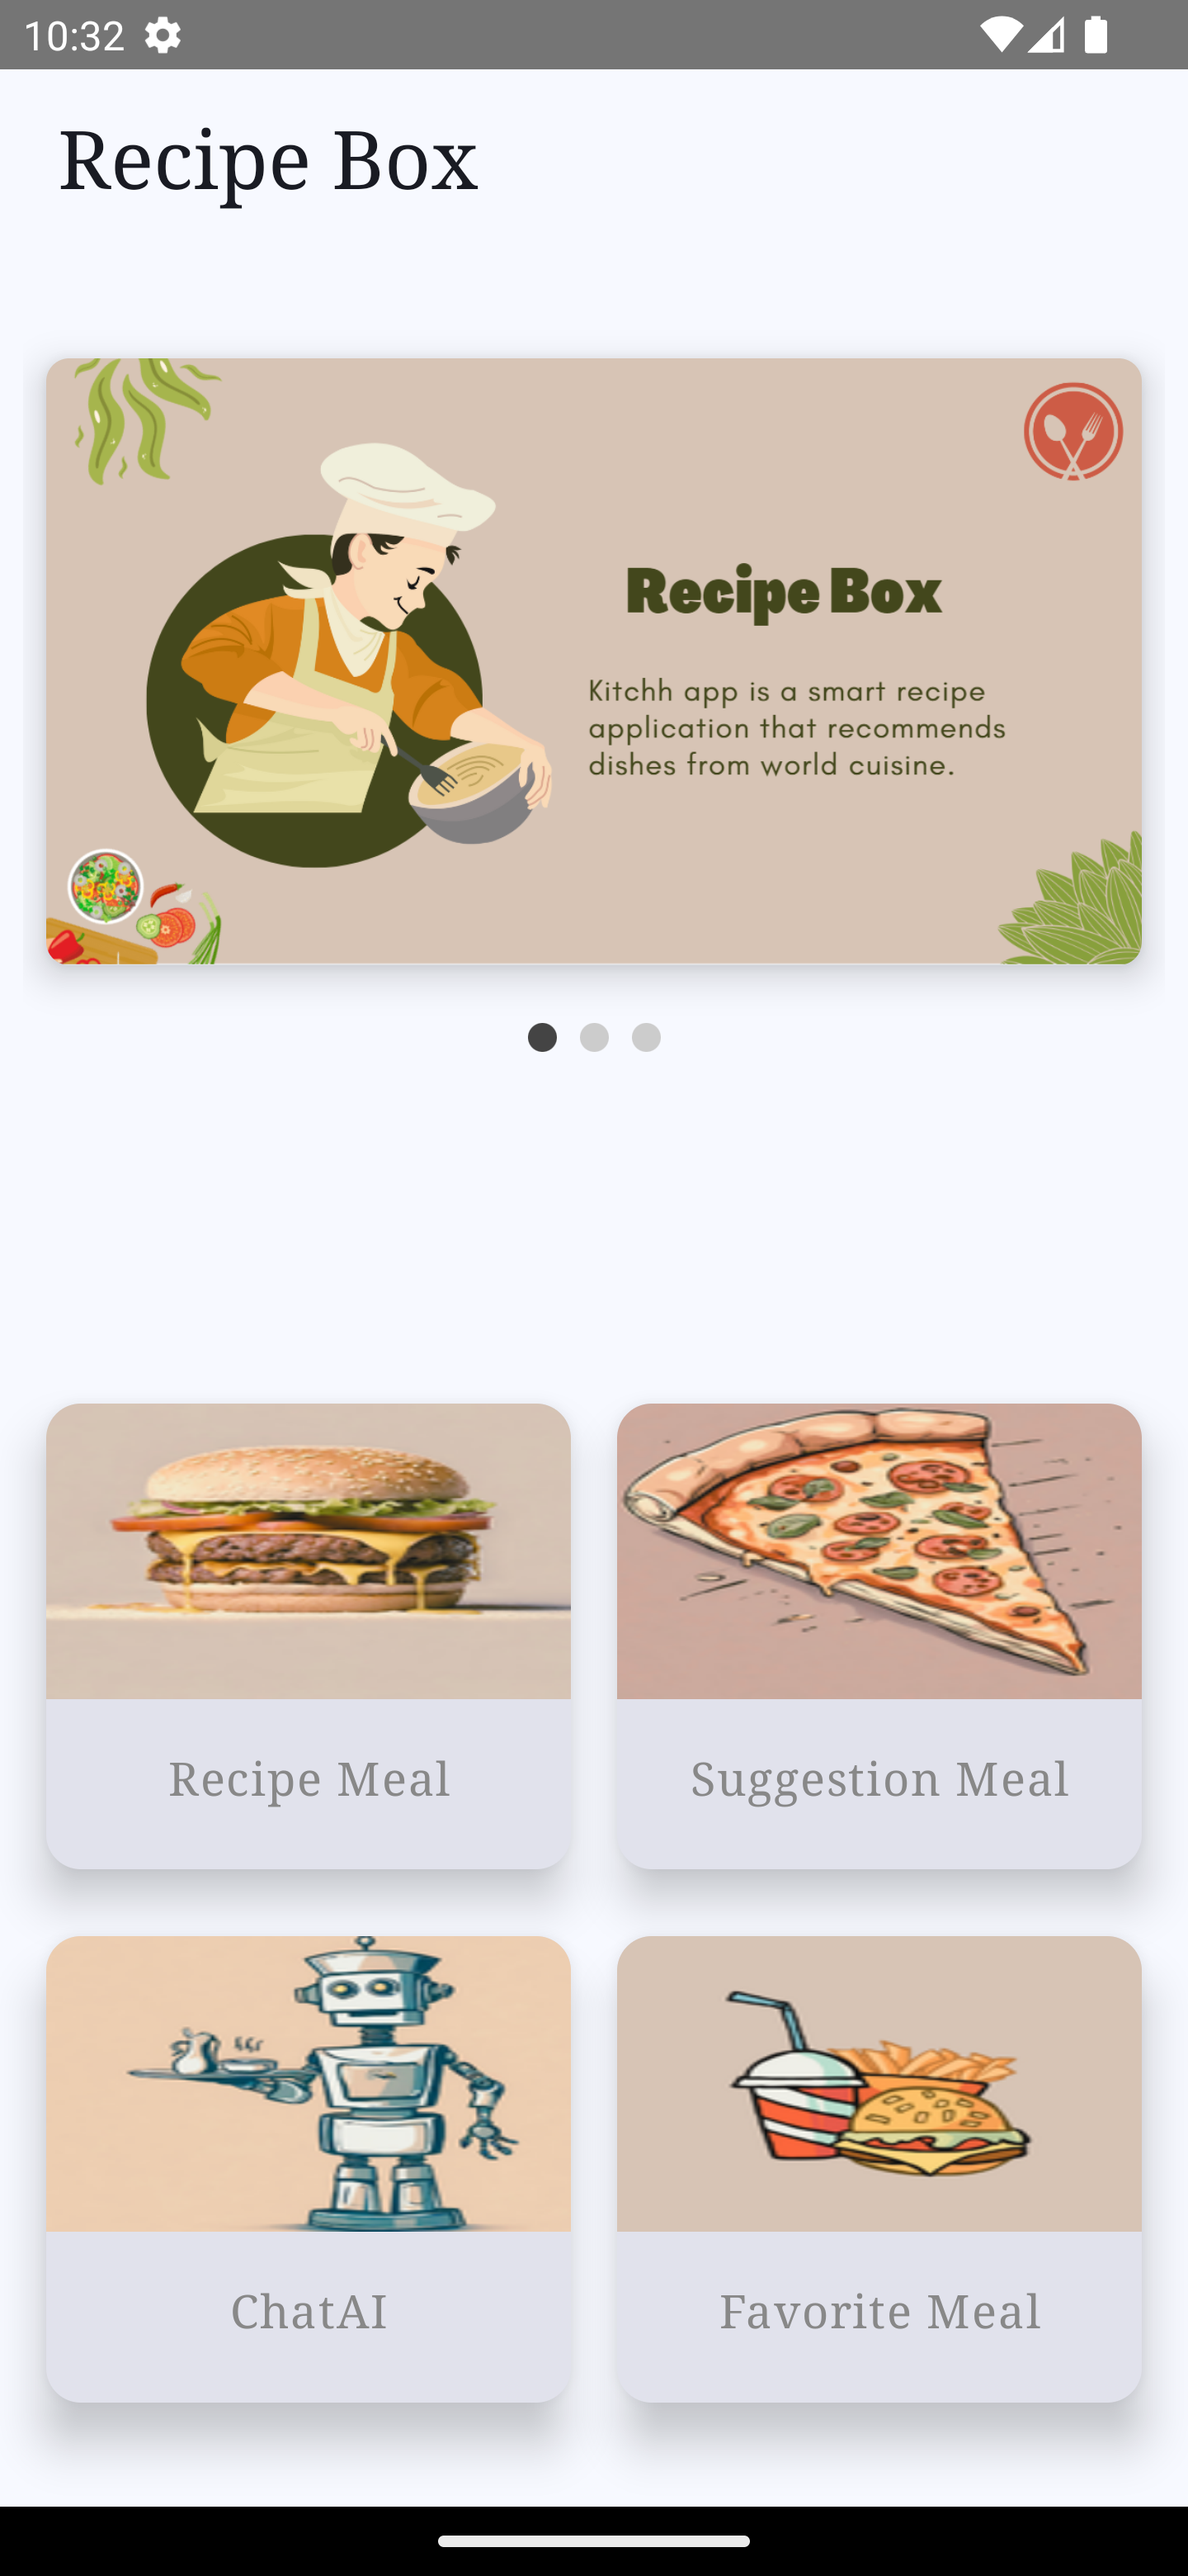
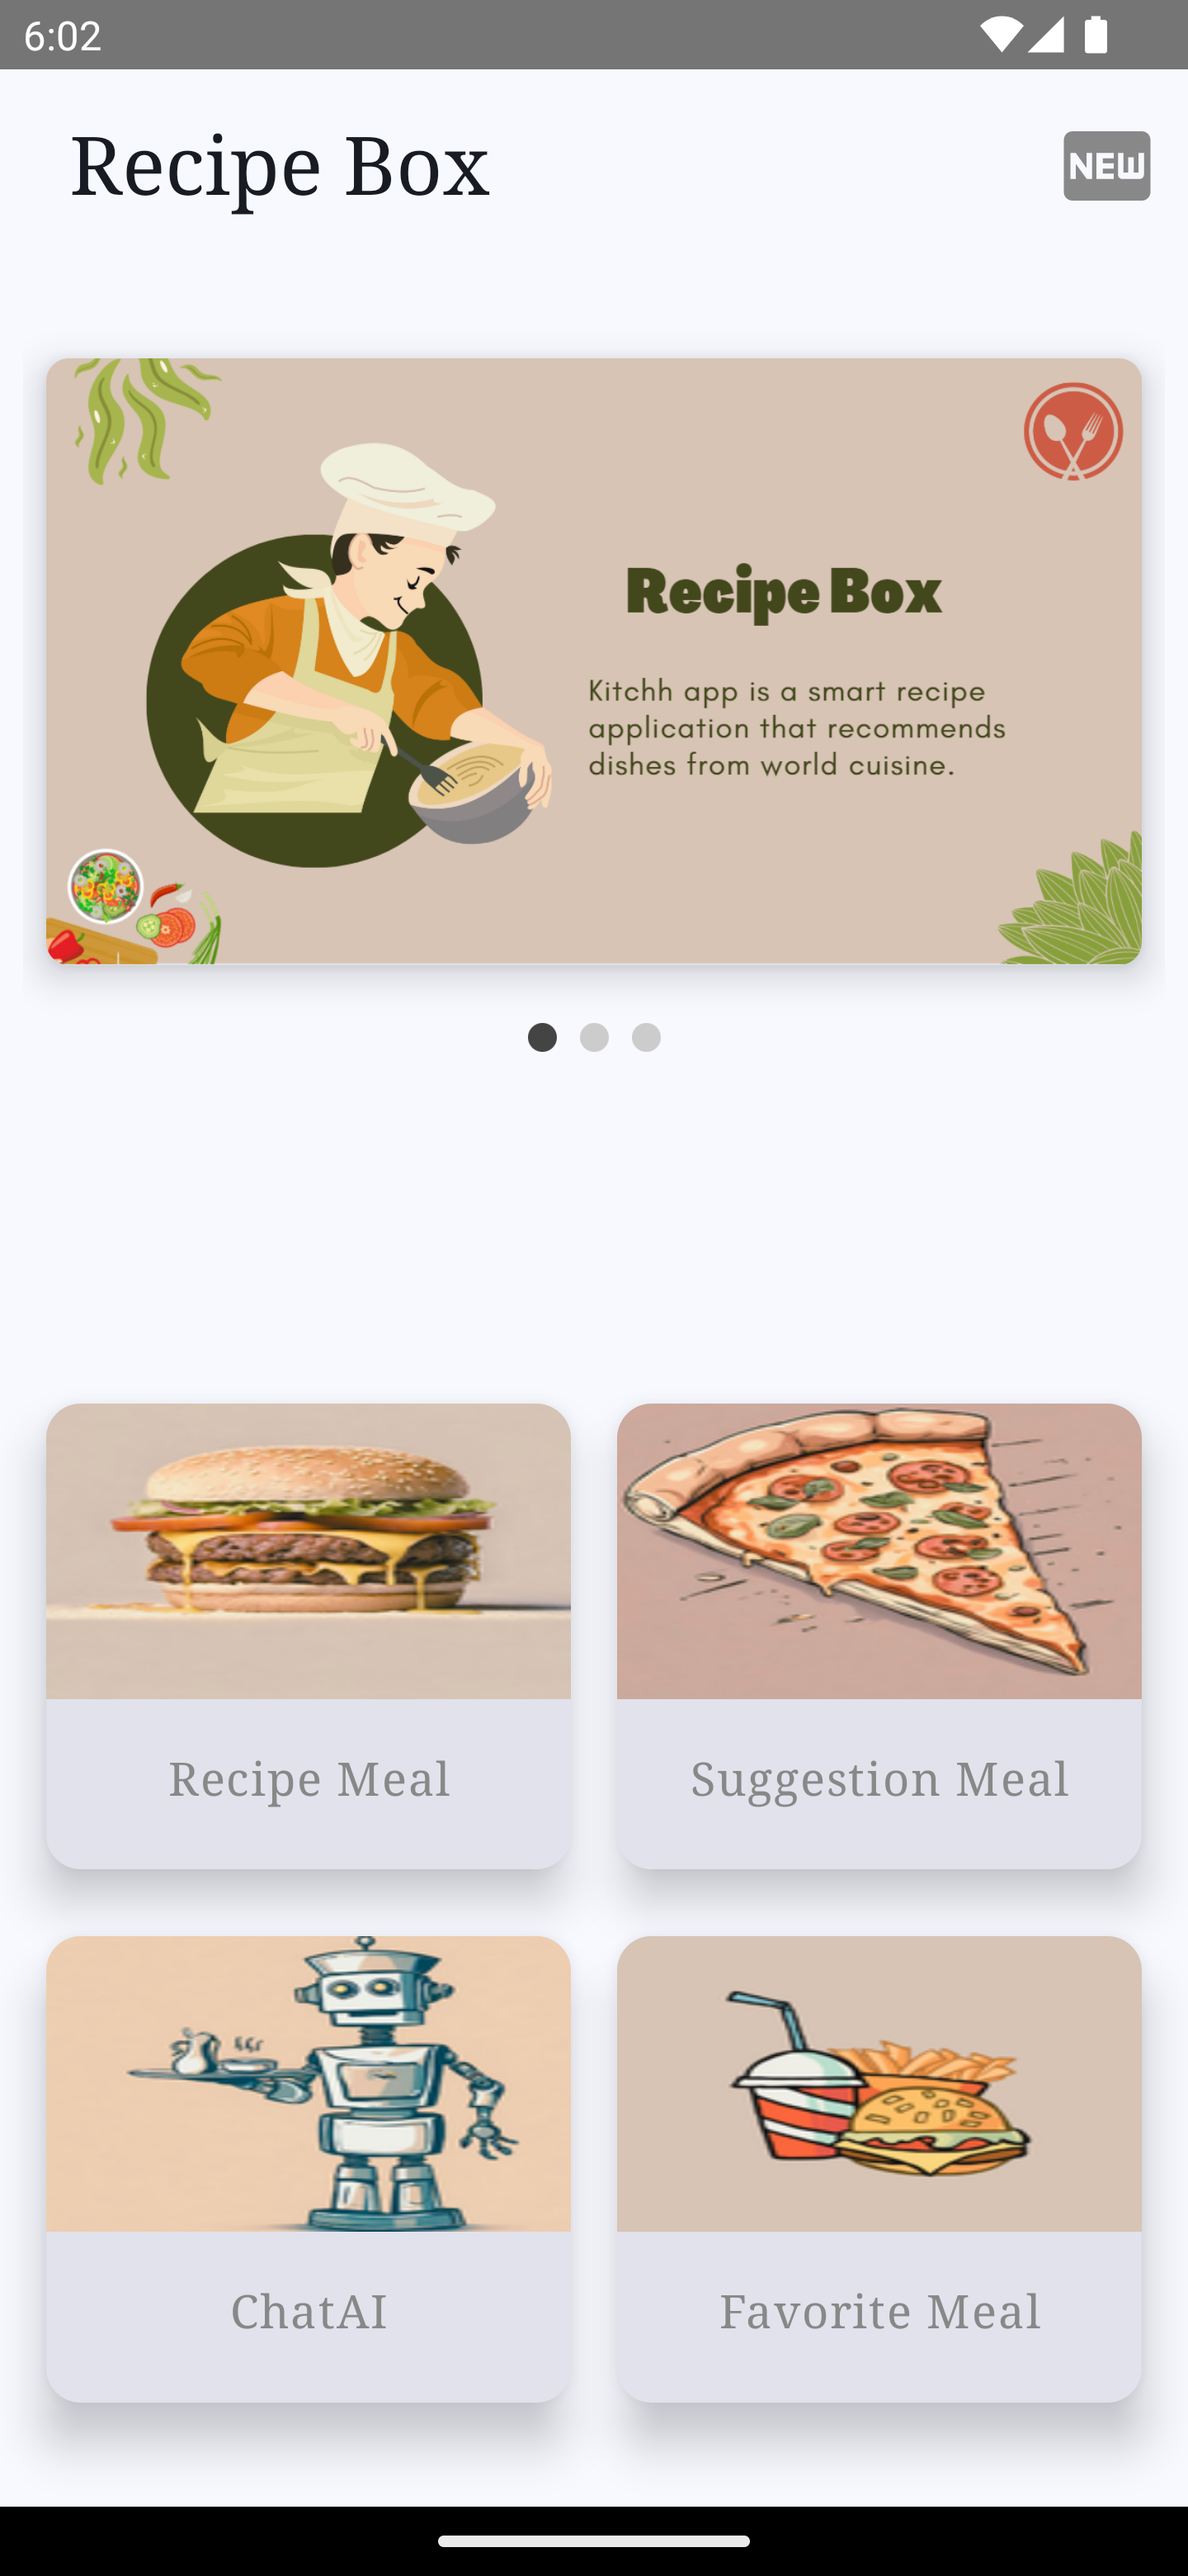
update navigation

Changed region(s): [[0.0312, 0.0, 0.4062, 0.0933], [0.875, 0.0311, 0.9688, 0.0933]]

diff --git a/app/src/main/java/com/enons/paparaproject/presentation/screens/HomePage/HomePage.kt b/app/src/main/java/com/enons/paparaproject/presentation/screens/HomePage/HomePage.kt
@@ -7,13 +7,18 @@ import androidx.compose.foundation.layout.Spacer
 import androidx.compose.foundation.layout.fillMaxSize
 import androidx.compose.foundation.layout.fillMaxWidth
 import androidx.compose.foundation.layout.padding
+import androidx.compose.foundation.layout.size
 import androidx.compose.foundation.layout.width
 import androidx.compose.material3.ExperimentalMaterial3Api
+import androidx.compose.material3.Icon
+import androidx.compose.material3.IconButton
 import androidx.compose.material3.Scaffold
 import androidx.compose.material3.TopAppBar
 import androidx.compose.runtime.Composable
 import androidx.compose.ui.Alignment
 import androidx.compose.ui.Modifier
+import androidx.compose.ui.graphics.Color
+import androidx.compose.ui.res.painterResource
 import androidx.compose.ui.res.stringResource
 import androidx.compose.ui.unit.dp
 import androidx.lifecycle.viewmodel.compose.viewModel
@@ -34,10 +39,29 @@ fun HomePage(navController: NavController) {
         topBar = {
             TopAppBar(
                 title = {
-                    CustomText(
-                        text = stringResource(id = R.string.app_name),
-                        padding = 4
-                    )
+                    Row(
+                        horizontalArrangement = Arrangement.SpaceBetween,
+                        modifier = Modifier
+                            .fillMaxWidth()
+                            .padding(top = 4.dp, end = 4.dp)
+                    ) {
+                        CustomText(
+                            text = stringResource(id = R.string.app_name),
+                            padding = 8
+                        )
+                        IconButton(
+                            onClick = {
+                                navController.navigate(Screen.LatestScreen.route)
+                            }
+                        ) {
+                            Icon(
+                                painter = painterResource(id = R.drawable.baseline_fiber_new_24),
+                                tint = Color.Gray,
+                                modifier = Modifier.size(36.dp),
+                                contentDescription = ""
+                            )
+                        }
+                    }
                 }
             )
         },
@@ -92,8 +116,7 @@ fun HomePage(navController: NavController) {
                             .fillMaxWidth()
                             .weight(7f),
                         text = stringResource(id = R.string.suggest_page),
-                        //onClick = { navController.navigate(Screen.RandomRecipePage.route) },
-                        onClick = { navController.navigate(Screen.LatestRecipePage.route) },
+                        onClick = { navController.navigate(Screen.RandomRecipePage.route) },
 
                         )
                     Spacer(modifier = Modifier.weight(1f))

diff --git a/app/src/main/java/com/enons/paparaproject/service/NotificationWorker.kt b/app/src/main/java/com/enons/paparaproject/service/NotificationWorker.kt
@@ -1,0 +1,54 @@
+package com.enons.paparaproject.service
+
+import android.app.NotificationChannel
+import android.app.NotificationManager
+import android.app.PendingIntent
+import android.content.Context
+import android.content.Intent
+import android.os.Build
+import androidx.core.app.NotificationCompat
+import androidx.core.app.NotificationManagerCompat
+import androidx.work.Worker
+import androidx.work.WorkerParameters
+import com.enons.paparaproject.MainActivity
+import com.enons.paparaproject.R
+
+class NotificationWorker(context: Context, params: WorkerParameters) : Worker(context, params) {
+
+    override fun doWork(): Result {
+        createNotification()
+        return Result.success()
+    }
+
+    private fun createNotification() {
+        val channelId = "latest_recipes_channel"
+        val channelName = "Latest Recipes Notifications"
+
+        if (Build.VERSION.SDK_INT >= Build.VERSION_CODES.O) {
+            val importance = NotificationManager.IMPORTANCE_DEFAULT
+            val channel = NotificationChannel(channelId, channelName, importance)
+            val notificationManager: NotificationManager = applicationContext.getSystemService(Context.NOTIFICATION_SERVICE) as NotificationManager
+            notificationManager.createNotificationChannel(channel)
+        }
+
+        val intent = Intent(applicationContext, MainActivity::class.java).apply {
+            flags = Intent.FLAG_ACTIVITY_CLEAR_TOP or Intent.FLAG_ACTIVITY_SINGLE_TOP
+            putExtra("navigateTo", "latestRecipePage")
+        }
+
+        val pendingIntent = PendingIntent.getActivity(applicationContext, 0, intent, PendingIntent.FLAG_UPDATE_CURRENT)
+
+        val notification = NotificationCompat.Builder(applicationContext, channelId)
+            .setSmallIcon(R.drawable.baseline_notifications_24)
+            .setContentTitle("Yeni Lezzetler Keşfet!")
+            .setContentText("Yeni tarifleri keşfetmek için tıkla!")
+            .setPriority(NotificationCompat.PRIORITY_DEFAULT)
+            .setContentIntent(pendingIntent)
+            .setAutoCancel(true)
+            .build()
+
+        with(NotificationManagerCompat.from(applicationContext)) {
+            notify(1, notification)
+        }
+    }
+}

diff --git a/app/src/main/java/com/enons/paparaproject/MainActivity.kt b/app/src/main/java/com/enons/paparaproject/MainActivity.kt
@@ -11,7 +11,7 @@ import androidx.work.WorkManager
 import com.enons.paparaproject.navigation.Navigation
 import com.enons.paparaproject.presentation.screens.HomePage.viewmodel.HomePageViewModel
 import com.enons.paparaproject.presentation.ui.theme.PaparaFinalProjectTheme
-import com.enons.paparaproject.service.MealWorker
+import com.enons.paparaproject.service.NotificationWorker
 import dagger.hilt.android.AndroidEntryPoint
 import java.util.concurrent.TimeUnit
 
@@ -38,19 +38,15 @@ class MainActivity : ComponentActivity() {
                 Navigation(navController = navController)
             }
         }
-        setupWorkManager()
+        scheduleNotificationWork()
     }
-    private fun setupWorkManager() {
-        val workRequest = PeriodicWorkRequestBuilder<MealWorker>(24, TimeUnit.HOURS)
+
+    private fun scheduleNotificationWork() {
+        val notificationWorkRequest = PeriodicWorkRequestBuilder<NotificationWorker>(24, TimeUnit.HOURS)
             .build()
 
-        WorkManager.getInstance(this@MainActivity.applicationContext).enqueueUniquePeriodicWork(
-            "MealWorker",
-            ExistingPeriodicWorkPolicy.KEEP,
-            workRequest
-        )
+        WorkManager.getInstance(this).enqueue(notificationWorkRequest)
     }
-
 }
 
 private external fun getApiKeyFromNdk(): String

diff --git a/app/src/main/java/com/enons/paparaproject/navigation/AppNavigation.kt b/app/src/main/java/com/enons/paparaproject/navigation/AppNavigation.kt
@@ -17,8 +17,8 @@ sealed class Screen(val route: String) {
     object RandomRecipePage : Screen("random_recipe_screen")
     object ChatAiScreen : Screen("chat_ai_screen")
     object FavoriteScreen : Screen("favorite_screen")
-    object LatestRecipePage : Screen("latest_recipe_screen")
-
+    object LatestScreen : Screen("latest_screen")
+    object LatestRecipePage : Screen("latestRecipePage")
 }
 
 @Composable
@@ -38,6 +38,12 @@ fun Navigation(navController: NavHostController) {
         }
         composable(Screen.FavoriteScreen.route) {
             FavoritePage(navController)
+        }
+        composable(Screen.LatestScreen.route) {
+            LatestRecipePage()
+        }
+        composable(Screen.LatestRecipePage.route) {
+            LatestRecipePage()
         }
     }
 
